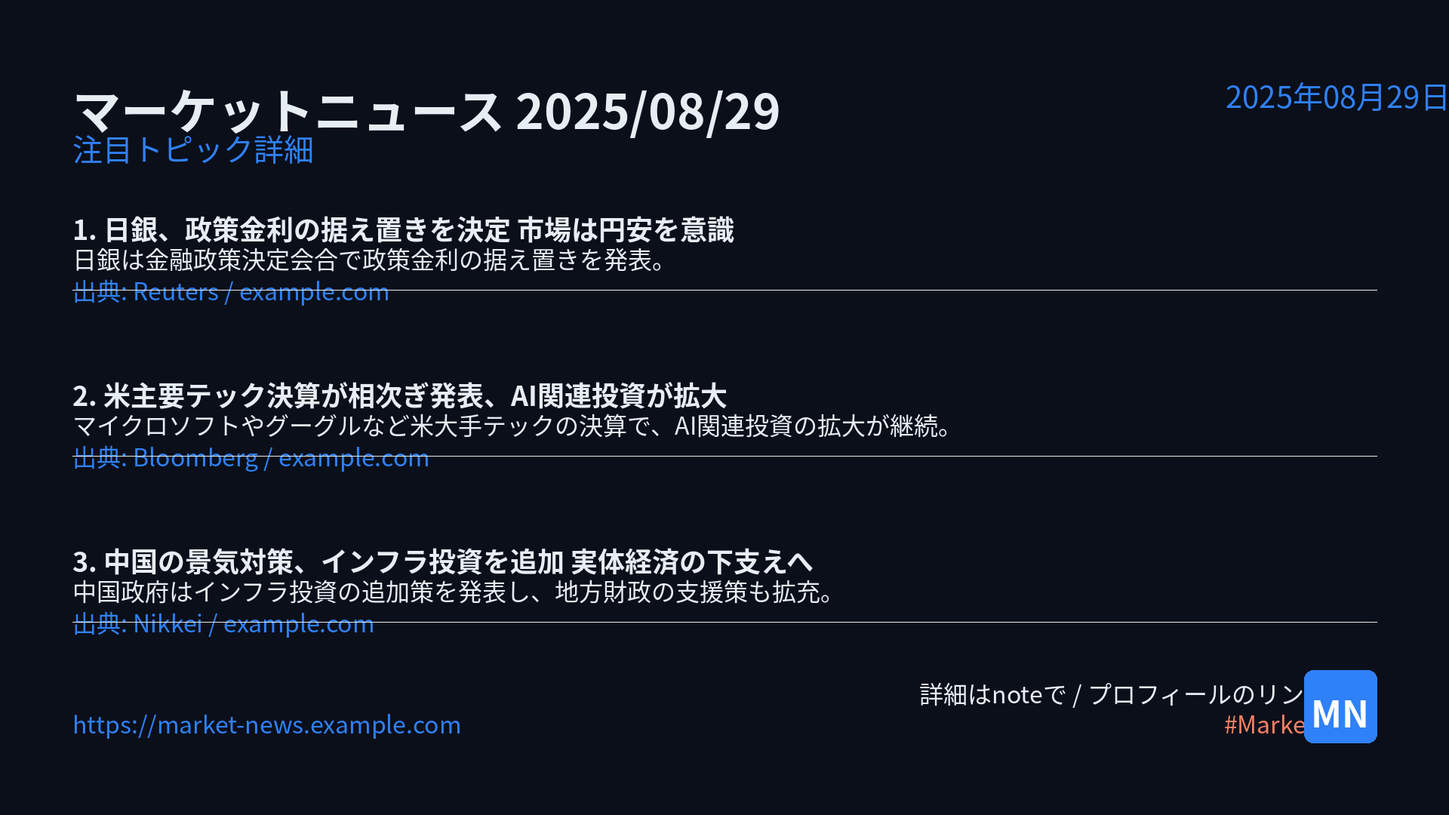
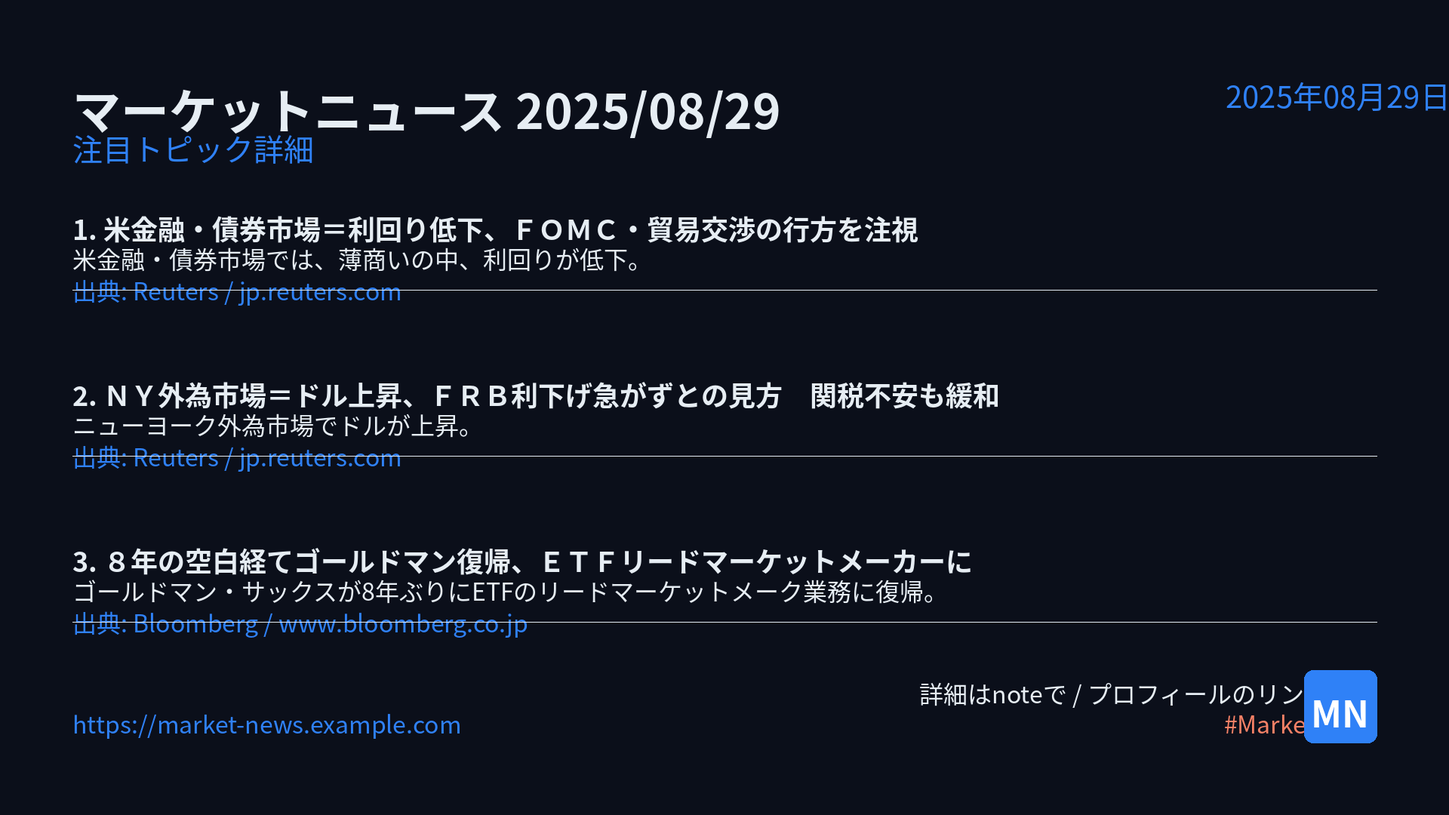
feat: Generate social content for 2025-08-29
📸 SNS画像生成完了
  📝 note記事生成完了
  📊 生成ログ保存完了

  保存場所:
  - public/preview/social/ (SNS画像)
  - public/preview/note/ (note記事)
  - public/preview/logs/ (生成ログ)
  - public/preview/index.html (プレビューページ)

  🤖 Generated with [Claude Code](https://claude.ai/code)

Changed region(s): [[0.0625, 0.4583, 0.6875, 0.5806], [0.0312, 0.6722, 0.6875, 0.7944], [0.0312, 0.2444, 0.6562, 0.3667]]

diff --git a/public/preview/note/2025-08-29.md b/public/preview/note/2025-08-29.md
@@ -1,113 +1,111 @@
-## 【2025年8月29日】日銀据え置き、米テック決算、中国景気対策：市場を動かす3つの要因と投資戦略
+## 【金融ジャーナリストが解説】今日の市場動向：利回り低下、ドル高、そしてETF市場への新風
 
-金融ジャーナリストの〇〇です。いつもnoteをご覧いただき、ありがとうございます。
+**2025年08月29日**
 
-2025年8月29日、今日の市場は様々なニュースで賑わっています。特に注目すべきは、日本銀行による政策金利の据え置き決定、アメリカ主要テック企業の決算発表、そして中国政府による景気対策の追加です。これらのニュースは、それぞれが独立した動きであると同時に、相互に影響し合いながら、今後の市場の方向性を左右する可能性を秘めています。
+読者の皆様、こんにちは。金融ジャーナリストの〇〇です。
 
-本日は、これらの重要トピックを深掘りし、その背景にある要因を分析するとともに、投資家の皆様が取るべき戦略について、具体的な示唆を提供していきたいと思います。
+本日は、市場が注目する複数の重要な動きがありました。米金融・債券市場では利回りが低下し、ニューヨーク外為市場ではドルが上昇。さらに、ETF市場においては、あのゴールドマン・サックスが8年ぶりにリードマーケットメーク業務に復帰するというニュースも飛び込んできました。
 
-### 1. 日銀、政策金利の据え置きを決定：市場は円安を意識
+これらの動きは、今後の金融市場の方向性を占う上で非常に重要な意味を持っています。本日は、これらのニュースを深掘りし、その背景にある要因、市場への影響、そして皆様の投資判断に役立つ示唆を、分かりやすく解説していきたいと思います。
 
-まず、最も注目すべきは日本銀行の金融政策決定会合の結果です。日銀は、市場の予想通り、政策金利を据え置くことを決定しました。これは、現在の日本の金融緩和スタンスを維持するというメッセージであり、低金利環境が当面続くと見られます。
+### 1. 米金融・債券市場＝利回り低下、FOMC・貿易交渉の行方を注視
 
-**なぜ据え置きなのか？**
+まず、本日の市場概況として、米金融・債券市場で利回りが低下したというニュースから見ていきましょう。
 
-日銀が政策金利を据え置いた背景には、いくつかの要因が考えられます。
+**利回り低下とは？**
 
-*   **緩やかな景気回復:** 日本経済は緩やかな回復基調にありますが、まだ力強さに欠ける部分もあります。急激な金融引き締めは、景気回復の腰を折るリスクがあります。
-*   **物価上昇圧力の持続性:** 消費税増税やエネルギー価格の高騰など、一時的な要因による物価上昇ではなく、持続的な物価上昇を実現するためには、まだ金融緩和の継続が必要と判断された可能性があります。
-*   **賃金上昇の動向:** 賃金上昇が物価上昇を上回る水準で続かなければ、実質賃金の低下を招き、個人消費の低迷につながる恐れがあります。日銀は、賃金上昇の動向を注視しており、その確実性を確認するまでは、慎重な姿勢を崩さないでしょう。
+債券の利回りが低下するということは、債券の価格が上昇することを意味します。債券は、発行時に定められた額面金額に対して、定期的に利息（クーポン）を支払います。利回りは、この利息収入と債券の市場価格を考慮して算出される収益率のことです。
 
-**市場の反応：円安への意識**
+例えば、額面100ドルの債券が、毎年5ドルの利息を支払うとします。この債券の価格が100ドルの場合、利回りは5%です。しかし、市場でこの債券が105ドルで取引されるようになると、同じ5ドルの利息収入でも、購入価格に対する収益率は約4.76%に低下します。これが「利回り低下」です。
 
-今回の政策金利据え置き決定に対し、市場は「円安」を強く意識しているようです。日米の金利差が依然として大きいことから、円を売ってドルを買う動きが加速し、円安が進む可能性があります。
+**なぜ利回りは低下したのか？**
 
-**円安のメリット・デメリット**
+今回の利回り低下の背景には、いくつかの要因が考えられます。
 
-円安は、輸出企業にとっては追い風となります。海外での売上を円換算した際の利益が増加するため、業績向上につながる可能性があります。また、インバウンド需要の増加にも寄与し、観光関連産業にも恩恵をもたらします。
-
-一方で、円安は輸入物価の上昇を招き、国内の物価を押し上げる要因となります。特に、エネルギーや食料品など、輸入に頼る品目の価格上昇は、家計の負担を増加させる可能性があります。また、原材料を輸入に頼る製造業にとっては、コスト増につながるリスクもはらんでいます。
-
-**投資家への示唆:**
-
-*   **輸出関連企業への注目:** 円安の恩恵を受ける可能性のある輸出関連企業、特に自動車、電機、機械といった業種に注目が集まるかもしれません。
-*   **輸入コスト増への警戒:** 輸入依存度の高い企業や、原材料価格の上昇が収益を圧迫する可能性のある企業には注意が必要です。
-*   **為替ヘッジの検討:** 外貨建て資産を保有している投資家は、為替ヘッジの必要性を検討する時期かもしれません。
-
-### 2. 米主要テック決算が相次ぎ発表、AI関連投資が拡大
-
-次に、アメリカの主要テック企業の決算発表について見ていきましょう。マイクロソフトやグーグルといった巨大IT企業は、いずれも市場予想を上回る好決算を発表しました。その中でも特筆すべきは、**AI（人工知能）関連への投資が引き続き拡大している**という点です。
-
-**AIブームの継続**
-
-AI技術は、もはやSFの世界の話ではなく、私たちの生活やビジネスを大きく変革する可能性を秘めた現実的な技術となっています。これらのテック企業は、AIの開発・普及に巨額の投資を行っており、その成果が業績に結びつき始めています。
-
-*   **クラウド事業の成長:** AIモデルの学習や運用には、高性能なコンピューティングリソースが必要です。そのため、マイクロソフトのAzureやグーグルのGoogle Cloudといったクラウドサービスへの需要が拡大しています。
-*   **AI搭載製品・サービスの拡充:** 各社は、AIを搭載した検索エンジン、オフィスソフト、オペレーティングシステムなどを次々と投入しており、これが新たな収益源となっています。
-*   **半導体分野への投資:** AIの心臓部とも言える高性能半導体の需要も高まっており、関連企業への投資も活発化しています。
-
-**決算内容の具体例（仮定）**
-
-例えば、マイクロソフトの決算では、クラウド事業の売上高が前年同期比で〇〇%増加し、そのうちAI関連サービスが〇〇%を占めた、といった具体的な数字が示されるでしょう。グーグルも同様に、検索広告収入に加え、クラウド事業やAI関連サービスからの収益が大きく伸びていることが予想されます。
+*   **薄商いの中での動き:** 報道によると、本日の市場は薄商いだったとのことです。薄商いとは、取引参加者が少なく、取引量が少ない状態を指します。このような状況では、少量の買い注文や売り注文でも、価格が大きく変動しやすい傾向があります。
+*   **FOMC（連邦公開市場委員会）への注目:** FOMCは、アメリカの中央銀行である連邦準備制度理事会（FRB）が金融政策を決定する会合です。FOMCの決定は、金利水準や経済の見通しに大きな影響を与えるため、市場参加者は常にその動向を注視しています。今回の利回り低下は、FOMCでの利下げ観測や、今後の金融政策の方向性に対する市場の期待が反映された可能性があります。
+*   **貿易交渉の行方への懸念:** 世界経済の動向に大きな影響を与える貿易交渉の行方も、市場の不確実性を高める要因となります。交渉の進展や停滞は、企業の業績や投資家のリスク選好度に影響を与え、それが債券市場の動きにも波及します。
 
 **市場への影響**
 
-これらの好決算は、テクノロジーセクター全体にポジティブな影響を与えるでしょう。AI関連技術への期待感はさらに高まり、関連企業の株価を押し上げる可能性があります。また、AIの進化は、他の産業にも波及効果をもたらし、新たなビジネスチャンスを生み出すことも期待されます。
+利回り低下は、一般的に以下のような影響をもたらします。
 
-**投資家への示唆:**
+*   **株式市場へのプラス要因:** 金利が低下すると、企業の借入コストが下がり、設備投資や研究開発への投資が活発になる可能性があります。また、債券の魅力が相対的に低下するため、投資資金が株式市場に流れ込みやすくなることも考えられます。
+*   **債券投資家の収益機会の変化:** 利回りが低下したということは、債券の価格が上昇したということです。既に債券を保有している投資家にとっては、含み益が増えることになります。一方で、これから債券を購入しようと考えている投資家にとっては、以前よりも低い利回りしか期待できなくなることを意味します。
 
-*   **AI関連企業への集中投資:** AI技術の進化は今後も続くと予想されるため、AI関連企業への投資は引き続き有望な選択肢と言えるでしょう。ただし、過熱感には注意が必要です。
-*   **クラウドサービスプロバイダーの重要性:** AIの基盤となるクラウドサービスを提供する企業は、今後も安定した成長が見込まれます。
-*   **バリュエーションの確認:** 好決算を受けて株価が上昇した場合でも、その企業のファンダメンタルズ（企業価値）に見合った株価であるか、冷静に判断することが重要です。
+### 2. NY外為市場＝ドル上昇、FRB利下げ急がずとの見方　関税不安も緩和
 
-### 3. 中国の景気対策、インフラ投資を追加：実体経済の下支えへ
+次に、ニューヨーク外為市場でのドルの上昇について見ていきましょう。
 
-最後に、中国の景気対策について見ていきましょう。中国政府は、インフラ投資の追加策を発表し、地方財政の支援策も拡充しました。これは、減速が懸念される中国経済を下支えするための重要な動きです。
+**ドル上昇とは？**
 
-**中国経済の現状と課題**
+ドルが上昇するということは、他の通貨に対してドルの価値が高まることを意味します。例えば、1ドル＝110円だったのが、1ドル＝115円になった場合、ドルは円に対して上昇したと言えます。
 
-近年、中国経済は不動産市場の低迷や若年層の失業率の上昇など、いくつかの課題に直面しています。政府はこれまでも様々な景気刺激策を打ち出してきましたが、その効果は限定的でした。
+**なぜドルは上昇したのか？**
 
-**インフラ投資の追加策**
+今回のドル上昇の背景には、以下の要因が挙げられます。
 
-今回のインフラ投資の追加は、経済成長を促進するための伝統的な手法です。道路、鉄道、空港などのインフラ整備は、建設業や関連産業に直接的な需要を生み出すだけでなく、物流コストの削減や生産性の向上にもつながります。
-
-**地方財政支援策の拡充**
-
-地方政府は、インフラ投資の実行において重要な役割を担っています。地方財政への支援を拡充することで、地方政府はより積極的に投資を実行できるようになり、景気対策の効果を高めることが期待されます。
+*   **FRB利下げ急がずとの見方:** FRBが利下げを急がないという見方が広がったことが、ドル上昇の大きな要因と考えられます。一般的に、金利が高い国の通貨は、投資家にとって魅力が増し、買われやすくなります。FRBが利下げに慎重な姿勢を示すことで、ドルの金利水準が相対的に高止まりすると見込まれ、ドル買いを誘った可能性があります。
+*   **関税不安の緩和:** 貿易交渉の進展や、関税に関する懸念が緩和されたことも、ドルの上昇を後押ししたと考えられます。関税不安は、世界経済の不確実性を高め、リスク回避の動きから安全資産とされるドルが買われることもありますが、不安が緩和されることで、よりリスクを取った投資が行われやすくなり、その結果としてドルが買われた可能性もあります。
 
 **市場への影響**
 
-*   **資源国への影響:** 中国のインフラ投資拡大は、鉄鉱石や銅といった資源の需要を押し上げる可能性があります。これにより、資源価格の上昇や、資源国経済の活性化につながることが考えられます。
-*   **建設・素材関連企業への恩恵:** 中国国内の建設会社や建材メーカーにとっては、新たなビジネスチャンスが生まれるでしょう。
-*   **世界経済への波及効果:** 中国経済の安定は、世界経済全体にとっても重要です。中国の景気回復は、世界的な需要の増加につながり、他の国々の経済にもプラスの影響を与える可能性があります。
+ドルの上昇は、以下のような影響をもたらします。
 
-**投資家への示唆:**
+*   **輸出企業への影響:** アメリカの輸出企業にとっては、ドル高は輸出価格の相対的な上昇を意味するため、競争力が低下する可能性があります。一方、輸入企業にとっては、輸入コストが低下するため、利益が増加する可能性があります。
+*   **海外資産への影響:** アメリカの投資家が海外の資産に投資する場合、ドル高は為替レートの変動によって、現地通貨建てでのリターンが目減りする可能性があります。
+*   **グローバル経済への影響:** ドルは基軸通貨であるため、ドルの動きは世界経済全体に影響を与えます。ドル高は、新興国などドル建て債務を抱える国々にとっては、債務返済負担の増加につながる可能性があります。
 
-*   **資源関連銘柄への注目:** 鉄鉱石や銅などの価格動向を注視し、関連企業への投資を検討する価値があります。
-*   **中国関連のETFや投資信託:** 中国経済の動向に連動するETF（上場投資信託）や投資信託を活用することで、手軽に中国経済の成長を取り込むことができます。
-*   **リスク管理の重要性:** 中国経済は、政府の政策や地政学的なリスクなど、不確実な要素も多く含んでいます。投資を行う際には、リスク管理を徹底することが不可欠です。
+### 3. 8年の空白経てゴールドマン復帰、ETFリードマーケットメーカーに
+
+最後に、ETF市場における注目のニュース、ゴールドマン・サックスのリードマーケットメーク業務への復帰について解説します。
+
+**ETFとは？**
+
+ETF（Exchange Traded Fund：上場投資信託）とは、特定の指数（例えば日経平均株価やS&P500など）に連動するように運用される投資信託であり、株式と同様に証券取引所に上場しているため、リアルタイムで売買できる金融商品です。
+
+**リードマーケットメーカーとは？**
+
+リードマーケットメーカー（Lead Market Maker）とは、ETFの取引において、常に買いと売りの両方の価格を提示し、市場の流動性を供給する役割を担う金融機関のことです。彼らが活発に取引を行うことで、投資家は希望する価格でETFを売買しやすくなり、市場が円滑に機能します。
+
+**ゴールドマン・サックスの復帰の意味**
+
+ゴールドマン・サックスが8年ぶりにETFのリードマーケットメーク業務に復帰するということは、ETF市場における競争が激化し、流動性がさらに向上する可能性を示唆しています。
+
+*   **流動性の向上:** 大手金融機関であるゴールドマン・サックスが市場に参入することで、ETFの取引がより活発になり、投資家はより有利な価格で、よりスムーズに取引できるようになることが期待されます。
+*   **競争の激化:** 他のマーケットメーカーとの競争が激化することで、より魅力的な価格提示やサービスが提供される可能性があります。
+*   **ETF市場の成熟:** このような大手金融機関の参入は、ETF市場がさらに成熟し、投資家にとってより魅力的な市場になっていく兆候とも言えます。
+
+**市場への影響**
+
+ゴールドマン・サックスの復帰は、ETF市場全体に以下のような影響を与える可能性があります。
+
+*   **ETFの取引コスト低下:** 流動性の向上や競争激化により、ETFの売買手数料やスプレッド（買値と売値の差）が低下する可能性があります。
+*   **新たなETF商品の開発促進:** 市場の活性化は、新たなテーマや指数に連動するETF商品の開発を促進する可能性があります。
+*   **投資家への恩恵:** 最終的には、これらの変化はETF投資家にとって、より低コストで、より多様な投資機会へのアクセスを可能にするという恩恵をもたらすでしょう。
 
 ### 市場への影響と投資家への示唆
 
-今日の3つの重要ニュースは、それぞれが異なる市場に影響を与えますが、相互に影響し合うことで、より複雑な市場環境を生み出しています。
+本日のニュースは、それぞれが独立した出来事であると同時に、相互に関連し合いながら、今後の市場の方向性を示唆しています。
 
-*   **日銀の据え置きと円安:** 日本国内では、輸出企業にとっては追い風ですが、輸入コスト増によるインフレ懸念も高まります。投資家は、円安の恩恵を受ける企業と、円安の影響を受ける企業を慎重に見極める必要があります。
-*   **米テック企業の決算とAI投資:** テクノロジーセクターへの投資妙味は高まりますが、AI関連のバリュエーションには注意が必要です。成長性と割安性のバランスを見極めることが重要です。
-*   **中国の景気対策とインフラ投資:** 資源価格の上昇や、中国関連企業への投資機会が生まれます。ただし、中国経済の先行きには不透明感も残るため、リスク管理を怠らないことが重要です。
+*   **利回り低下とドル高の組み合わせ:** 米金融・債券市場での利回り低下と、ニューヨーク外為市場でのドル上昇という組み合わせは、市場参加者がFRBの金融政策に対して慎重な見方を示しつつも、アメリカ経済の相対的な強さを意識している可能性を示唆しています。
+*   **ETF市場への新風:** ゴールドマン・サックスのETFリードマーケットメーク業務への復帰は、ETF市場のさらなる発展と、投資家にとっての取引環境の改善を示唆しています。これは、長期的な視点で見れば、ETFを通じた資産形成を目指す投資家にとって追い風となるでしょう。
 
-これらのニュースを踏まえ、投資家は以下のような点を考慮すべきでしょう。
+**投資家への示唆**
 
-*   **ポートフォリオの分散:** 特定の国やセクターに偏らず、グローバルに分散されたポートフォリオを構築することが、リスクを低減する上で重要です。
-*   **長期的な視点:** 短期的な市場の変動に一喜一憂せず、長期的な視点で投資を行うことが成功の鍵となります。
-*   **情報収集と分析:** 常に最新の情報を収集し、客観的な分析に基づいて投資判断を行うことが不可欠です。
+これらの状況を踏まえ、投資家の皆様には以下の点を考慮していただきたいと思います。
+
+*   **FRBの動向を注視:** FOMCの決定やFRB高官の発言には引き続き注意を払い、金融政策の方向性を正確に把握することが重要です。利下げのタイミングやペースは、株式市場や債券市場に大きな影響を与えます。
+*   **為替リスクの管理:** ドル高が進む可能性も考慮し、外貨建て資産への投資においては為替リスクを十分に理解し、必要であればヘッジ手段を検討することも重要です。
+*   **ETF市場の動向:** ETF市場の流動性向上や商品開発の動向は、投資戦略を立てる上で重要な要素となります。低コストで多様な投資が可能なETFは、今後もポートフォリオの中心的な役割を担う可能性があります。
+*   **分散投資の重要性:** 市場の不確実性が高まる中、特定の資産クラスや地域に偏らず、分散投資を心がけることが、リスクを管理し、安定したリターンを目指す上で不可欠です。
 
 ### まとめと今後の見通し
 
-本日は、日銀の政策金利据え置き、米主要テック企業の好決算、そして中国の景気対策という3つの重要ニュースを詳細に分析しました。これらのニュースは、それぞれが市場に大きな影響を与える可能性を秘めており、今後の経済動向を占う上で重要な指標となります。
+本日は、米金融・債券市場の利回り低下、ドル高、そしてETF市場におけるゴールドマン・サックスの復帰という3つの主要なニュースを分析しました。これらの動きは、市場参加者の期待や懸念、そして金融市場の構造変化を反映しており、今後の市場動向を占う上で重要な手がかりとなります。
 
-日銀の政策金利据え置きは、円安を意識させる動きであり、輸出企業にとっては追い風となる一方、輸入物価の上昇懸念も高まります。米テック企業の決算は、AI関連投資の拡大を示唆しており、テクノロジーセクターへの期待感を高めていますが、バリュエーションには注意が必要です。中国の景気対策は、インフラ投資の拡大を通じて実体経済を下支えする狙いがあり、資源国や関連企業にとっては恩恵が期待されます。
+特に、FRBの金融政策の行方と、それに伴う金利や為替の変動は、引き続き市場の最大の注目点となるでしょう。また、ETF市場の活性化は、投資家にとって新たな機会をもたらす可能性があります。
 
-これらの動きを総合的に判断し、ご自身の投資戦略を練り直すことが重要です。市場は常に変化しており、新たな情報が次々と出てきます。引き続き、最新の情報を注視し、冷静な分析に基づいた投資判断を行っていくことをお勧めします。
+今後も、これらの重要なニュースをいち早くキャッチアップし、皆様の投資判断に役立つ情報を提供してまいります。引き続き、当noteにご注目ください。
 
-最後までお読みいただき、ありがとうございました。次回のnoteもお楽しみに！
+それでは、次回の更新をお楽しみに。
